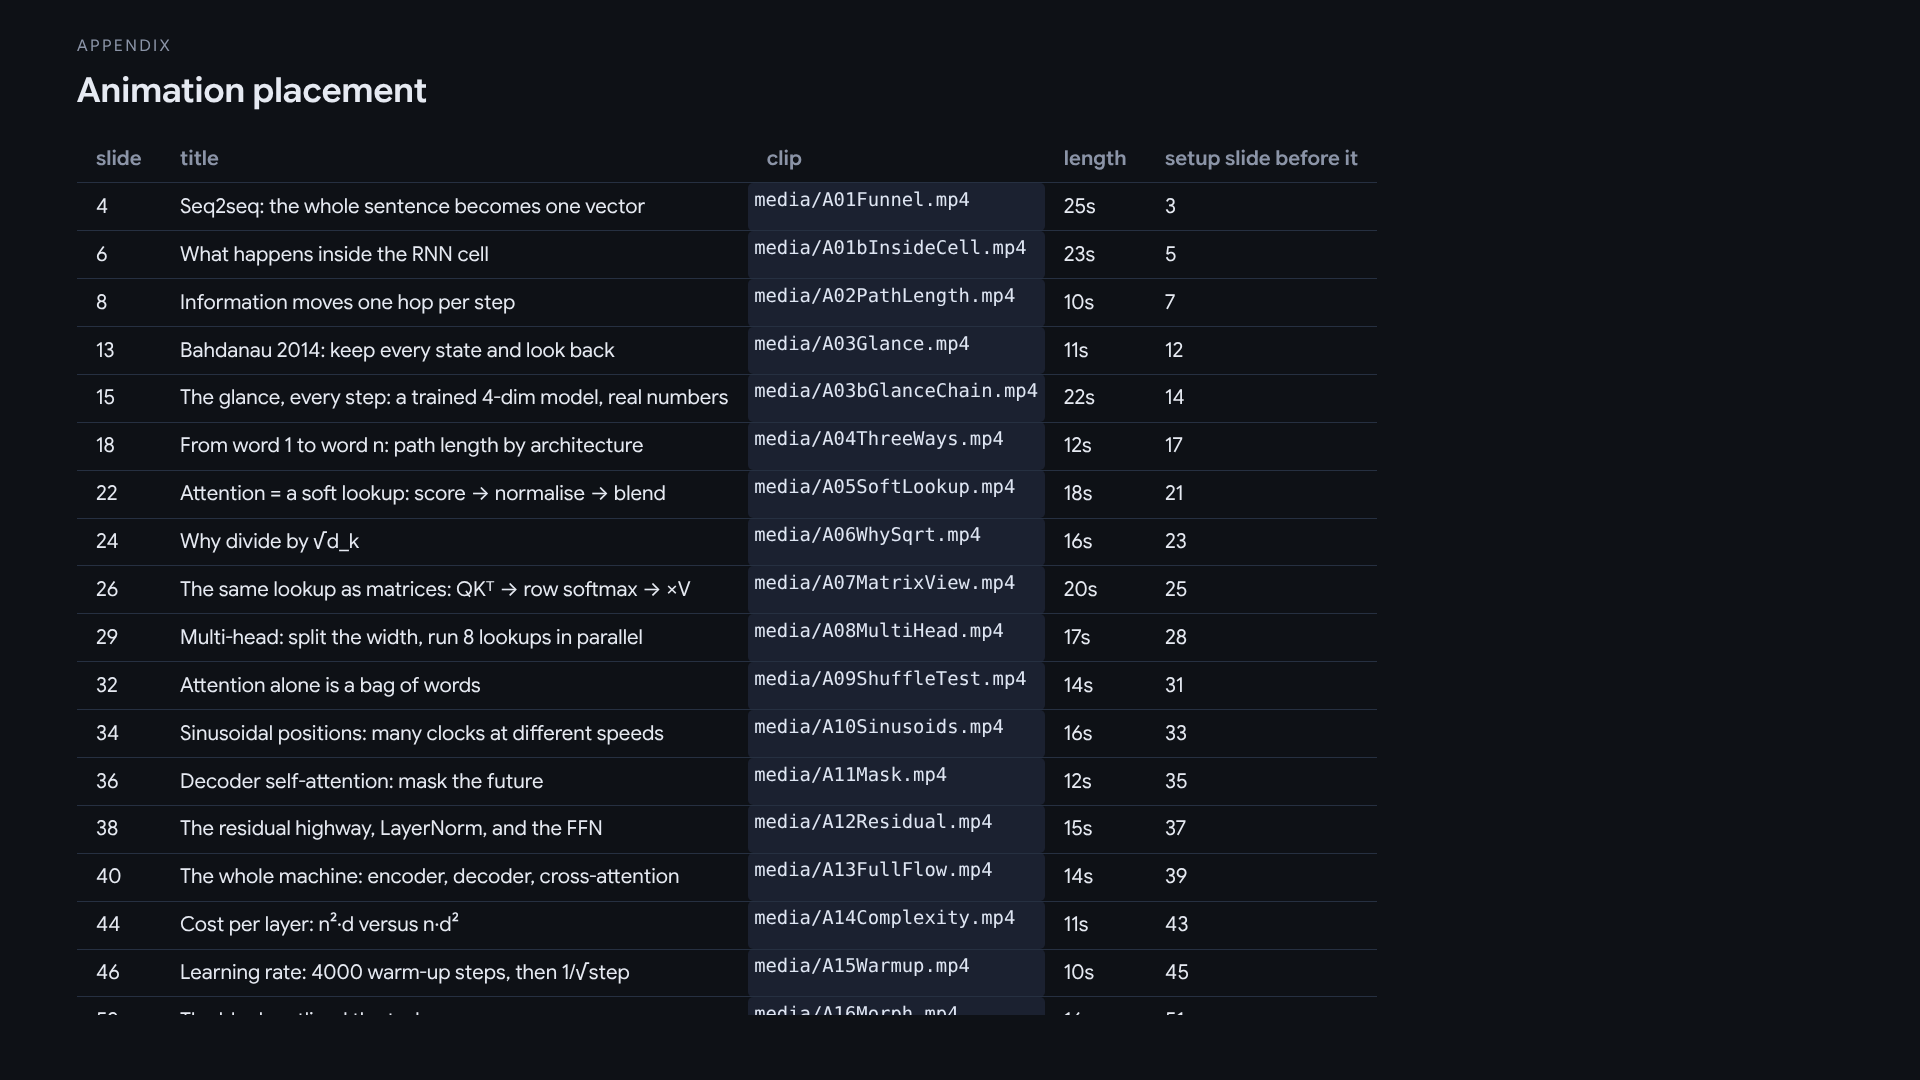
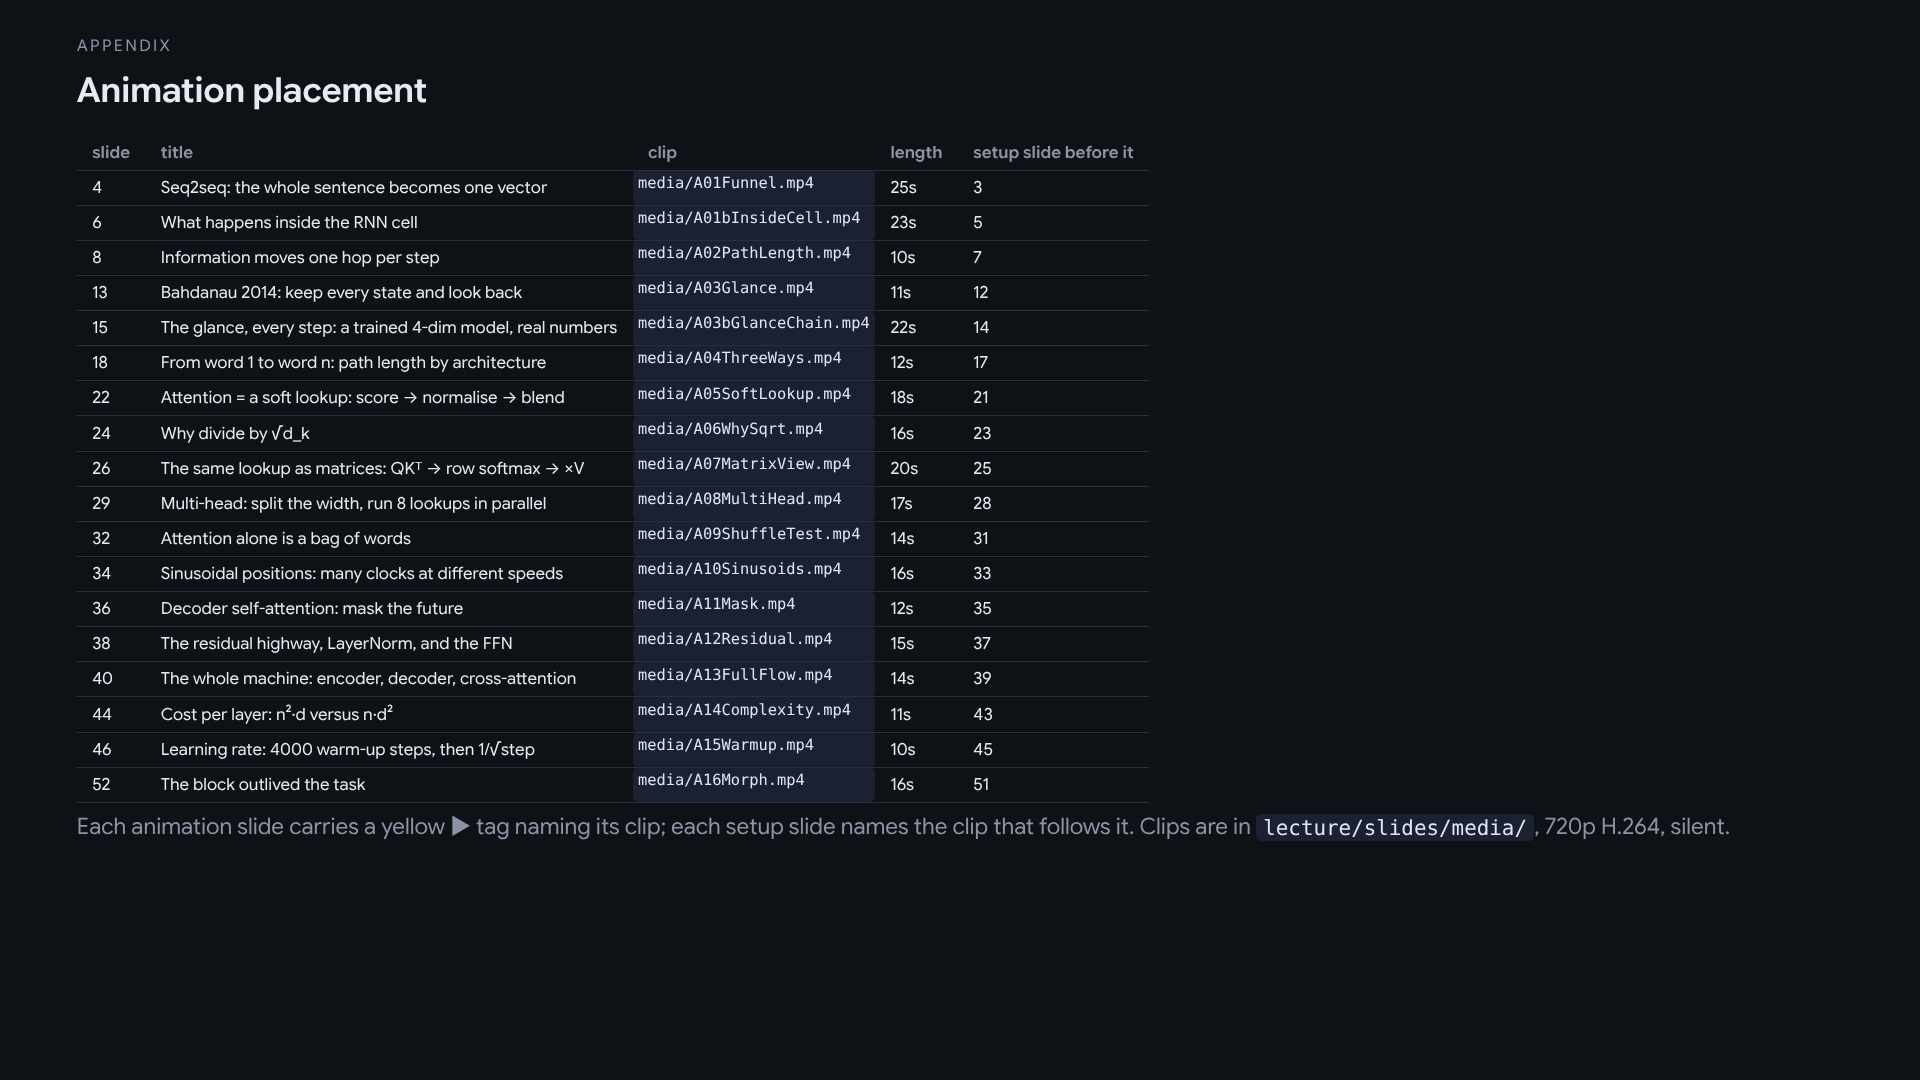
Fit the animation placement table on one slide
Claude-Session: https://claude.ai/code/session_013P1oFAkGwojaPVzYDUZFwd

Changed region(s): [[0.0312, 0.1222, 0.875, 0.9472], [0.5938, 0.6722, 0.625, 0.7028]]

diff --git a/lecture/slides/index.html b/lecture/slides/index.html
@@ -48,6 +48,7 @@
   .watch h3{margin:0 0 1vh;font-size:1.7vh;color:var(--acc);letter-spacing:.1em;text-transform:uppercase}
   .watch ol{margin:0 0 0 1.2em;padding:0;font-size:2vh;line-height:1.55;color:#cfd6e4}
   .watch li{margin:.8vh 0}
+  table.dense{font-size:1.55vh} table.dense th,table.dense td{padding:.38vh .8vw}
   .clip{display:inline-block;margin-left:.8vw;padding:.15em .6em;border:1px solid var(--acc);border-radius:999px;color:var(--acc);font-size:1.4vh;letter-spacing:.04em;text-transform:none;font-family:ui-monospace,SFMono-Regular,Menlo,Consolas,monospace;vertical-align:middle}
   .clip::before{content:"▶ ";font-family:inherit}
   .callout{border-left:3px solid var(--acc);padding:.4vh 1vw;background:#151b26;border-radius:6px;margin:.8vh 0}
@@ -403,7 +404,7 @@ push({kicker:"Appendix", title:"Figures to capture from the original paper",
   <p>Further visual references: Jay Alammar, <i>The Illustrated Transformer</i> · 3Blue1Brown, <i>Attention in transformers, visually explained</i> · Harvard NLP, <i>The Annotated Transformer</i> · BertViz · Transformer Explainer.</p>`});
 
 push({kicker:"Appendix", title:"Animation placement",
-  html:`<table><tr><th>slide</th><th>title</th><th>clip</th><th>length</th><th>setup slide before it</th></tr><tr><td>4</td><td>Seq2seq: the whole sentence becomes one vector</td><td class='f'>media/A01Funnel.mp4</td><td>25s</td><td>3</td></tr><tr><td>6</td><td>What happens inside the RNN cell</td><td class='f'>media/A01bInsideCell.mp4</td><td>23s</td><td>5</td></tr><tr><td>8</td><td>Information moves one hop per step</td><td class='f'>media/A02PathLength.mp4</td><td>10s</td><td>7</td></tr><tr><td>13</td><td>Bahdanau 2014: keep every state and look back</td><td class='f'>media/A03Glance.mp4</td><td>11s</td><td>12</td></tr><tr><td>15</td><td>The glance, every step: a trained 4-dim model, real numbers</td><td class='f'>media/A03bGlanceChain.mp4</td><td>22s</td><td>14</td></tr><tr><td>18</td><td>From word 1 to word n: path length by architecture</td><td class='f'>media/A04ThreeWays.mp4</td><td>12s</td><td>17</td></tr><tr><td>22</td><td>Attention = a soft lookup: score → normalise → blend</td><td class='f'>media/A05SoftLookup.mp4</td><td>18s</td><td>21</td></tr><tr><td>24</td><td>Why divide by √d_k</td><td class='f'>media/A06WhySqrt.mp4</td><td>16s</td><td>23</td></tr><tr><td>26</td><td>The same lookup as matrices: QKᵀ → row softmax → ×V</td><td class='f'>media/A07MatrixView.mp4</td><td>20s</td><td>25</td></tr><tr><td>29</td><td>Multi-head: split the width, run 8 lookups in parallel</td><td class='f'>media/A08MultiHead.mp4</td><td>17s</td><td>28</td></tr><tr><td>32</td><td>Attention alone is a bag of words</td><td class='f'>media/A09ShuffleTest.mp4</td><td>14s</td><td>31</td></tr><tr><td>34</td><td>Sinusoidal positions: many clocks at different speeds</td><td class='f'>media/A10Sinusoids.mp4</td><td>16s</td><td>33</td></tr><tr><td>36</td><td>Decoder self-attention: mask the future</td><td class='f'>media/A11Mask.mp4</td><td>12s</td><td>35</td></tr><tr><td>38</td><td>The residual highway, LayerNorm, and the FFN</td><td class='f'>media/A12Residual.mp4</td><td>15s</td><td>37</td></tr><tr><td>40</td><td>The whole machine: encoder, decoder, cross-attention</td><td class='f'>media/A13FullFlow.mp4</td><td>14s</td><td>39</td></tr><tr><td>44</td><td>Cost per layer: n²·d versus n·d²</td><td class='f'>media/A14Complexity.mp4</td><td>11s</td><td>43</td></tr><tr><td>46</td><td>Learning rate: 4000 warm-up steps, then 1/√step</td><td class='f'>media/A15Warmup.mp4</td><td>10s</td><td>45</td></tr><tr><td>52</td><td>The block outlived the task</td><td class='f'>media/A16Morph.mp4</td><td>16s</td><td>51</td></tr></table>
+  html:`<table class="dense"><tr><th>slide</th><th>title</th><th>clip</th><th>length</th><th>setup slide before it</th></tr><tr><td>4</td><td>Seq2seq: the whole sentence becomes one vector</td><td class='f'>media/A01Funnel.mp4</td><td>25s</td><td>3</td></tr><tr><td>6</td><td>What happens inside the RNN cell</td><td class='f'>media/A01bInsideCell.mp4</td><td>23s</td><td>5</td></tr><tr><td>8</td><td>Information moves one hop per step</td><td class='f'>media/A02PathLength.mp4</td><td>10s</td><td>7</td></tr><tr><td>13</td><td>Bahdanau 2014: keep every state and look back</td><td class='f'>media/A03Glance.mp4</td><td>11s</td><td>12</td></tr><tr><td>15</td><td>The glance, every step: a trained 4-dim model, real numbers</td><td class='f'>media/A03bGlanceChain.mp4</td><td>22s</td><td>14</td></tr><tr><td>18</td><td>From word 1 to word n: path length by architecture</td><td class='f'>media/A04ThreeWays.mp4</td><td>12s</td><td>17</td></tr><tr><td>22</td><td>Attention = a soft lookup: score → normalise → blend</td><td class='f'>media/A05SoftLookup.mp4</td><td>18s</td><td>21</td></tr><tr><td>24</td><td>Why divide by √d_k</td><td class='f'>media/A06WhySqrt.mp4</td><td>16s</td><td>23</td></tr><tr><td>26</td><td>The same lookup as matrices: QKᵀ → row softmax → ×V</td><td class='f'>media/A07MatrixView.mp4</td><td>20s</td><td>25</td></tr><tr><td>29</td><td>Multi-head: split the width, run 8 lookups in parallel</td><td class='f'>media/A08MultiHead.mp4</td><td>17s</td><td>28</td></tr><tr><td>32</td><td>Attention alone is a bag of words</td><td class='f'>media/A09ShuffleTest.mp4</td><td>14s</td><td>31</td></tr><tr><td>34</td><td>Sinusoidal positions: many clocks at different speeds</td><td class='f'>media/A10Sinusoids.mp4</td><td>16s</td><td>33</td></tr><tr><td>36</td><td>Decoder self-attention: mask the future</td><td class='f'>media/A11Mask.mp4</td><td>12s</td><td>35</td></tr><tr><td>38</td><td>The residual highway, LayerNorm, and the FFN</td><td class='f'>media/A12Residual.mp4</td><td>15s</td><td>37</td></tr><tr><td>40</td><td>The whole machine: encoder, decoder, cross-attention</td><td class='f'>media/A13FullFlow.mp4</td><td>14s</td><td>39</td></tr><tr><td>44</td><td>Cost per layer: n²·d versus n·d²</td><td class='f'>media/A14Complexity.mp4</td><td>11s</td><td>43</td></tr><tr><td>46</td><td>Learning rate: 4000 warm-up steps, then 1/√step</td><td class='f'>media/A15Warmup.mp4</td><td>10s</td><td>45</td></tr><tr><td>52</td><td>The block outlived the task</td><td class='f'>media/A16Morph.mp4</td><td>16s</td><td>51</td></tr></table>
   <p class="dim">Each animation slide carries a yellow ▶ tag naming its clip; each setup slide names the clip that follows it. Clips are in <span class="f">lecture/slides/media/</span>, 720p H.264, silent.</p>`});
 
 push({type:"section", kicker:"55–60 min", title:"Q&A", sub:"Two curses, a soft lookup, a divided width, turning clocks, a masked future. And a decade of stacking that block higher."});
